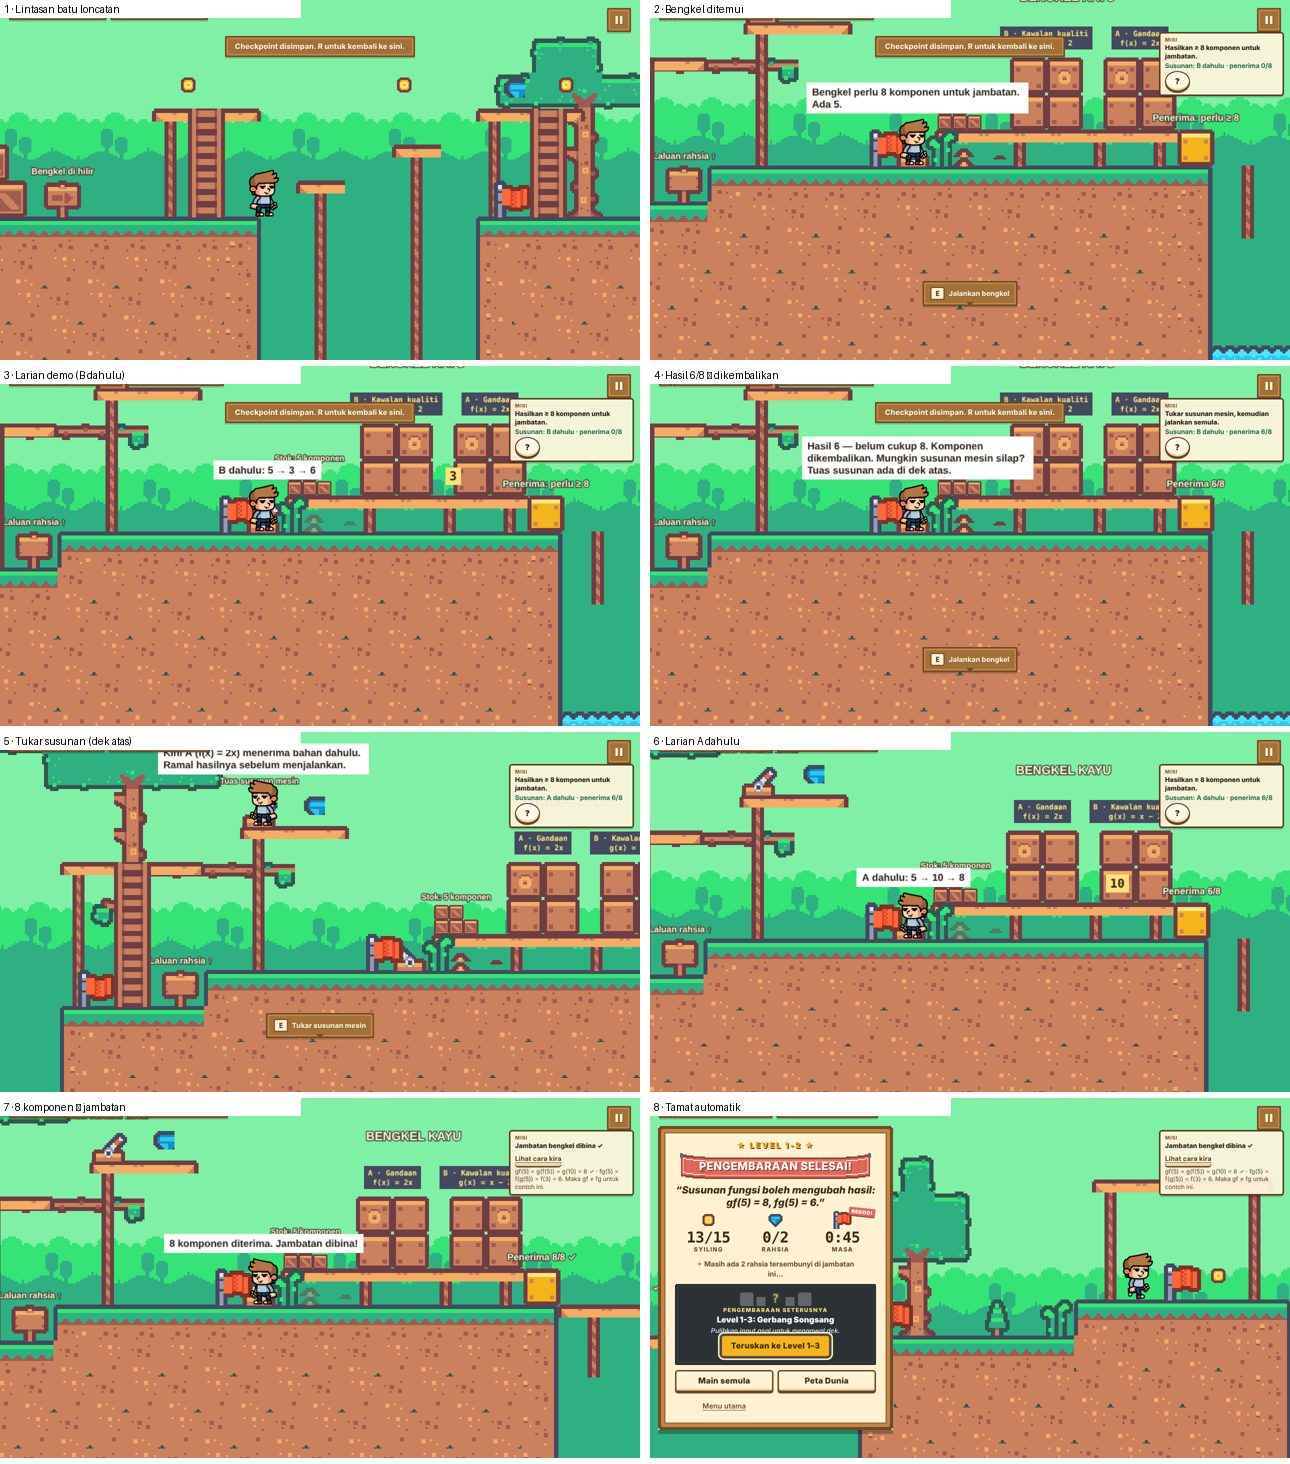
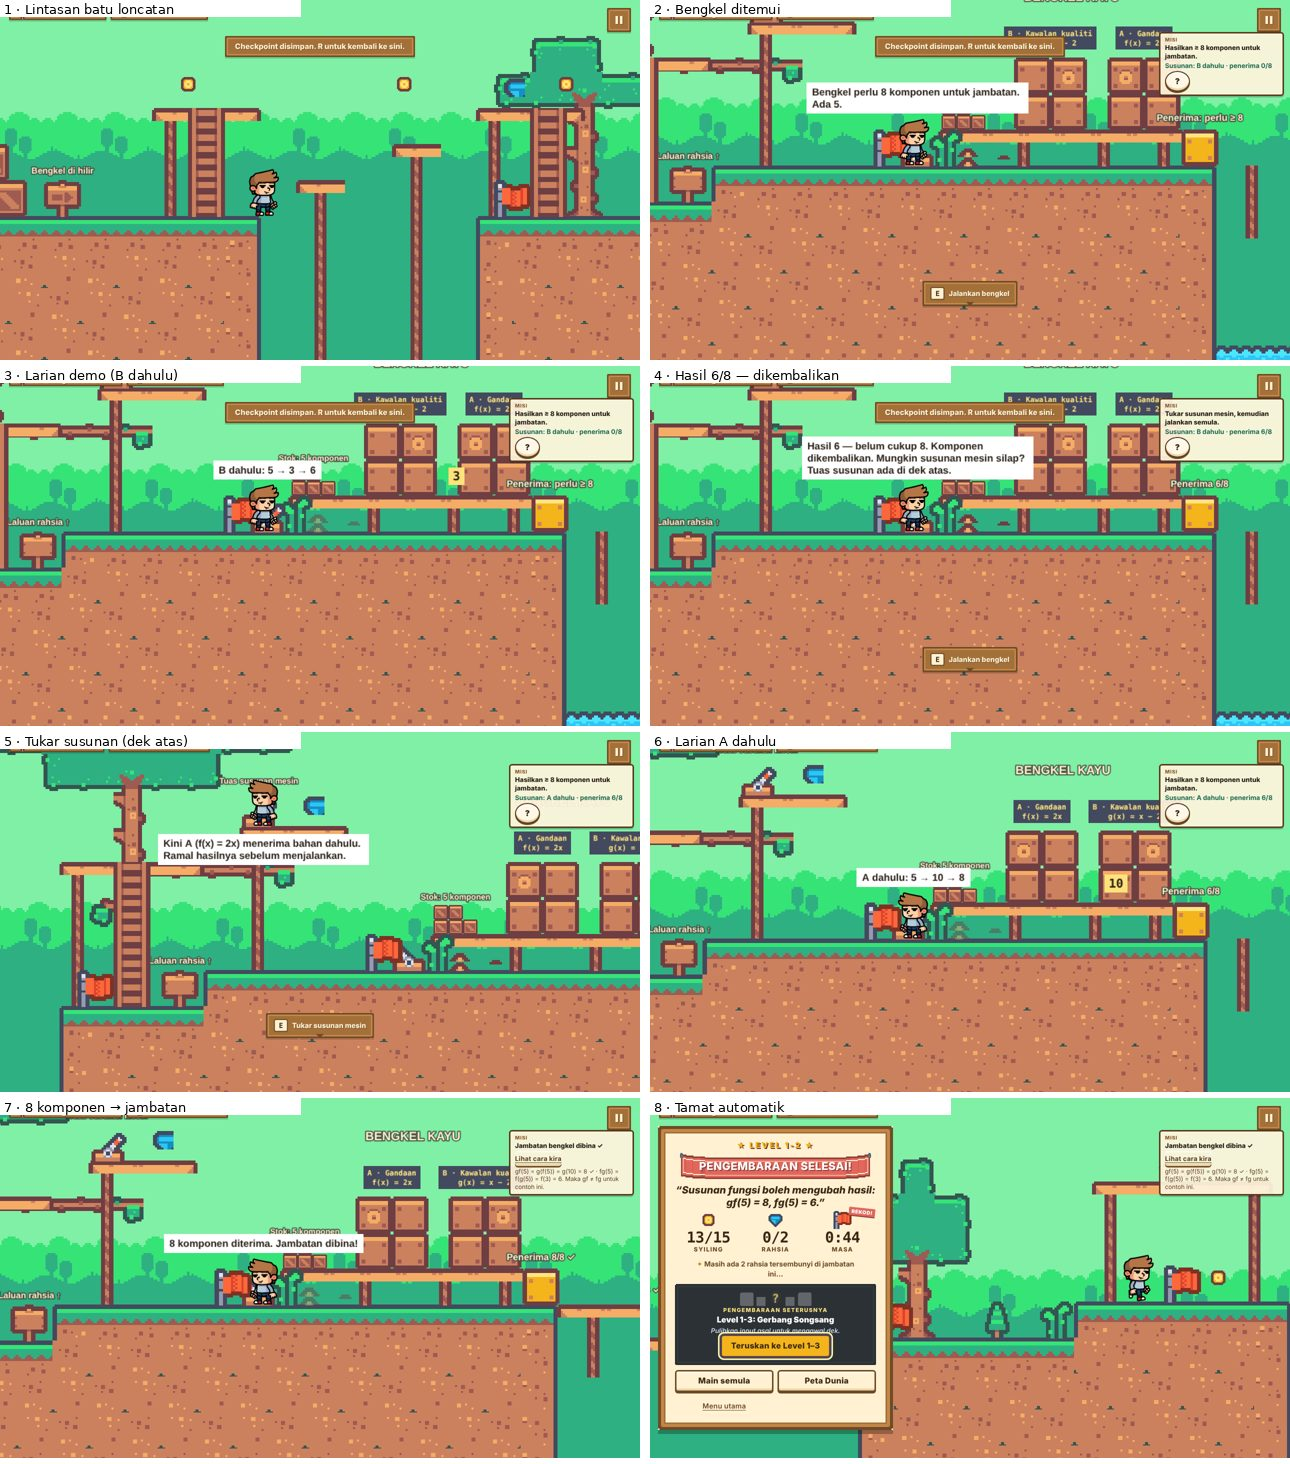
DENAI 1-2 workshop: keep speech bubbles inside the view on phones
Bubbles move below the player when there is no room above (upper deck),
wrap to the camera width and are clamped horizontally (portrait).
Desktop evidence sheet rebuilt from the regression run.

Claude-Session: https://claude.ai/code/session_01QwUqyEYsVMEYqQz4DTWahH

diff --git a/app/addmath/denai/src/v14/levels/workshop-line.js b/app/addmath/denai/src/v14/levels/workshop-line.js
@@ -67,15 +67,16 @@ export function buildBridge(s,animate,{audio,SFX}={}){
 }
 export function bubble(s,text,ms=3000){
  const v=s.workshop;v.bubble?.destroy();
- v.bubble=s.add.text(s.player.x,s.player.body.top-18,text,{fontFamily:'Arial, sans-serif',fontSize:'15px',fontStyle:'bold',color:'#2b2118',backgroundColor:'#ffffff',padding:{x:8,y:5},wordWrap:{width:340}}).setOrigin(.5,1).setDepth(45);
+ v.bubble=s.add.text(s.player.x,s.player.body.top-18,text,{fontFamily:'Arial, sans-serif',fontSize:'15px',fontStyle:'bold',color:'#2b2118',backgroundColor:'#ffffff',padding:{x:8,y:5},wordWrap:{width:Math.min(340,s.cameras.main.worldView.width-40)}}).setOrigin(.5,1).setDepth(45);
  v.bubbleUntil=s.time.now+ms;placeBubble(s);
 }
 // Above the player, but never pushed off the top of the view (or under the HUD chips).
 function placeBubble(s){
  const b=s.workshop.bubble,cam=s.cameras.main;if(!b)return;
+ const view=cam.worldView,half=b.width/2+8,x=Math.min(Math.max(s.player.x,view.x+half),view.right-half);
  const above=s.player.body.top-18-b.height>=cam.worldView.y+58/cam.zoom;
- if(above)b.setOrigin(.5,1).setPosition(s.player.x,s.player.body.top-18);
- else b.setOrigin(.5,0).setPosition(s.player.x,s.player.body.bottom+12);
+ if(above)b.setOrigin(.5,1).setPosition(x,s.player.body.top-18);
+ else b.setOrigin(.5,0).setPosition(x,s.player.body.bottom+12);
 }
 
 // Prompt + passive triggers, called each frame while playing.
